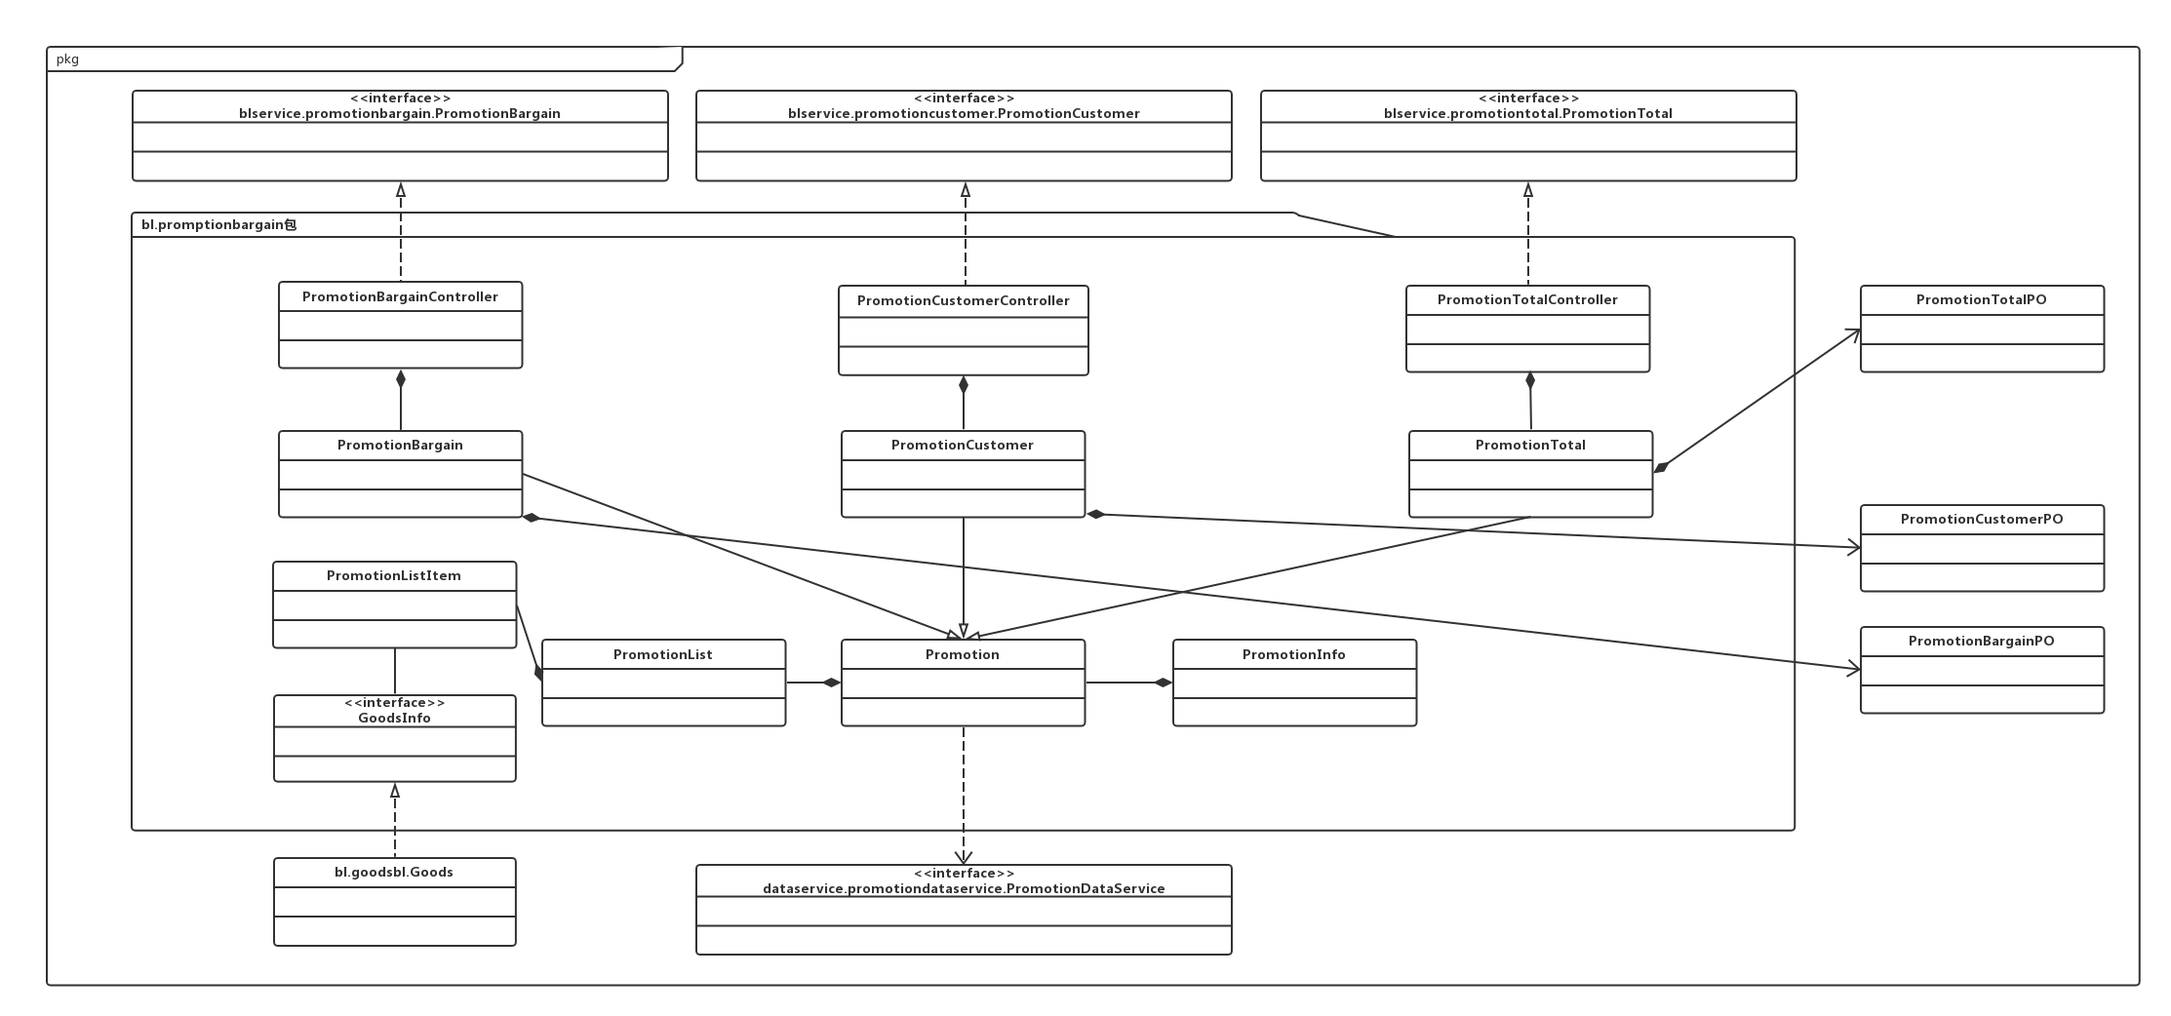
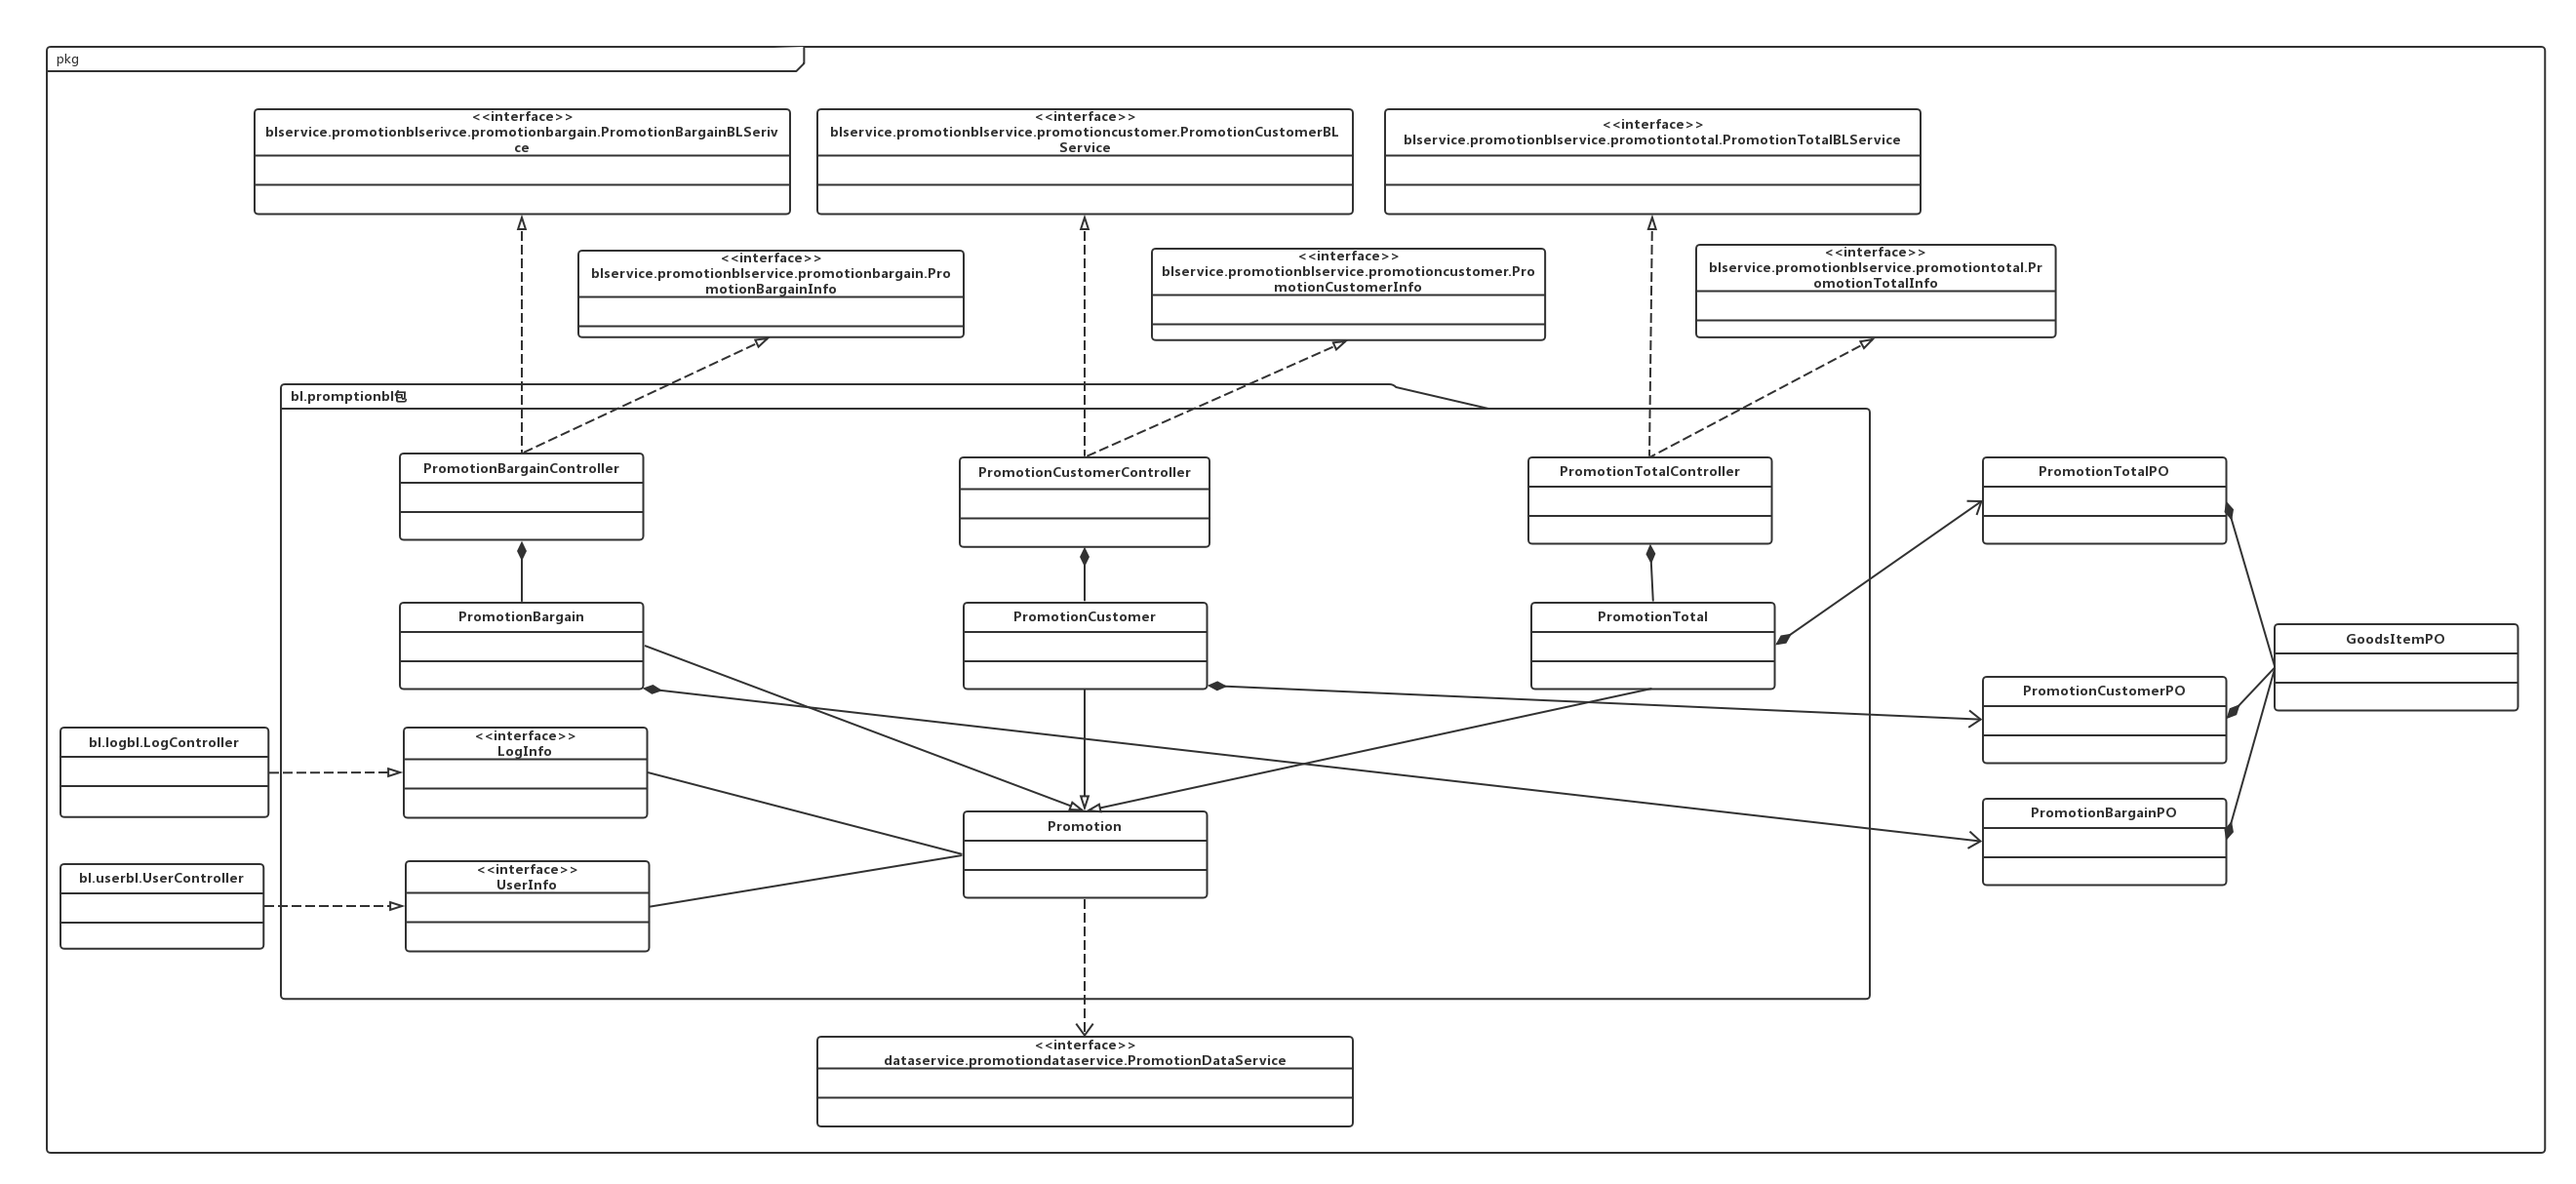
document:详细设计图例修改

diff --git a/ERPClient/src/main/java/bl/promotionbl/PromotionCustomer.java b/ERPClient/src/main/java/bl/promotionbl/PromotionCustomer.java
@@ -26,9 +26,7 @@ import vo.PromotionCustomerVO;
 public class PromotionCustomer extends Promotion{
 	
 	ArrayList<PromotionCustomerPO> promotionCustomerPOs = new ArrayList<>();
-	private UserInfo userInfo;
-	private LogInfo logInfo;
-	
+
 	public PromotionCustomer(){
 		promotionDataService = PromotionRemoteHelper.getInstance().getPromotionDataService();
 		userInfo = UserBLFactory.getInfo();

diff --git a/ERPClient/src/main/java/bl/promotionbl/PromotionTotal.java b/ERPClient/src/main/java/bl/promotionbl/PromotionTotal.java
@@ -29,8 +29,6 @@ import vo.PromotionTotalVO;
 public class PromotionTotal extends Promotion{
 	
 	private ArrayList<PromotionTotalPO> promotionTotalPOs = new ArrayList<>();
-	private UserInfo userInfo;
-	private LogInfo logInfo;
 	
 	public PromotionTotal(){
 		promotionDataService = PromotionRemoteHelper.getInstance().getPromotionDataService();

diff --git a/ERPClient/src/main/java/bl/promotionbl/Promotion.java b/ERPClient/src/main/java/bl/promotionbl/Promotion.java
@@ -1,9 +1,13 @@
 package bl.promotionbl;
 
+import blservice.logblservice.LogInfo;
+import blservice.userblservice.UserInfo;
 import dataservice.promotiondataservice.PromotionDataService;
 
 public class Promotion {
 	
 	protected PromotionDataService promotionDataService;
+	protected UserInfo userInfo;
+	protected LogInfo logInfo;
 	
 }

diff --git a/ERPClient/src/main/java/bl/promotionbl/PromotionBargain.java b/ERPClient/src/main/java/bl/promotionbl/PromotionBargain.java
@@ -31,8 +31,6 @@ import vo.UserVO;
 public class PromotionBargain extends Promotion{
 	
 	ArrayList<PromotionBargainPO> promotionBargainPOs = new ArrayList<>();
-	private UserInfo userInfo;
-	private LogInfo logInfo;
 	
 	public PromotionBargain(){
 		promotionDataService = PromotionRemoteHelper.getInstance().getPromotionDataService();
